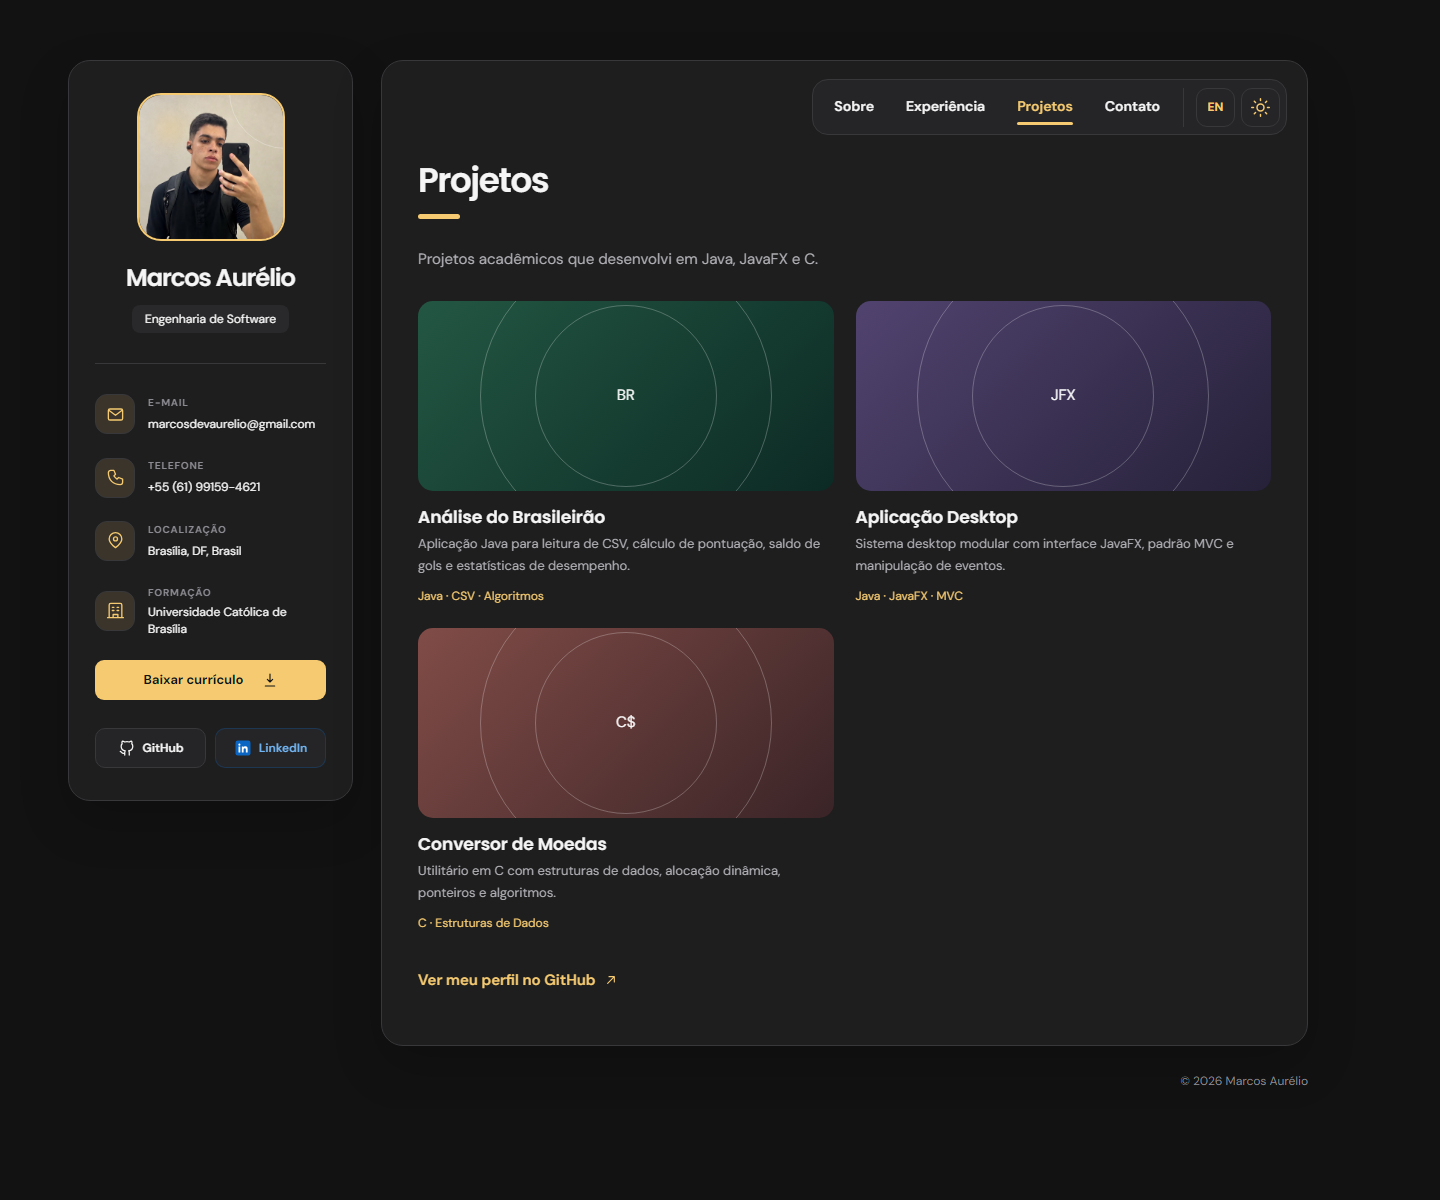
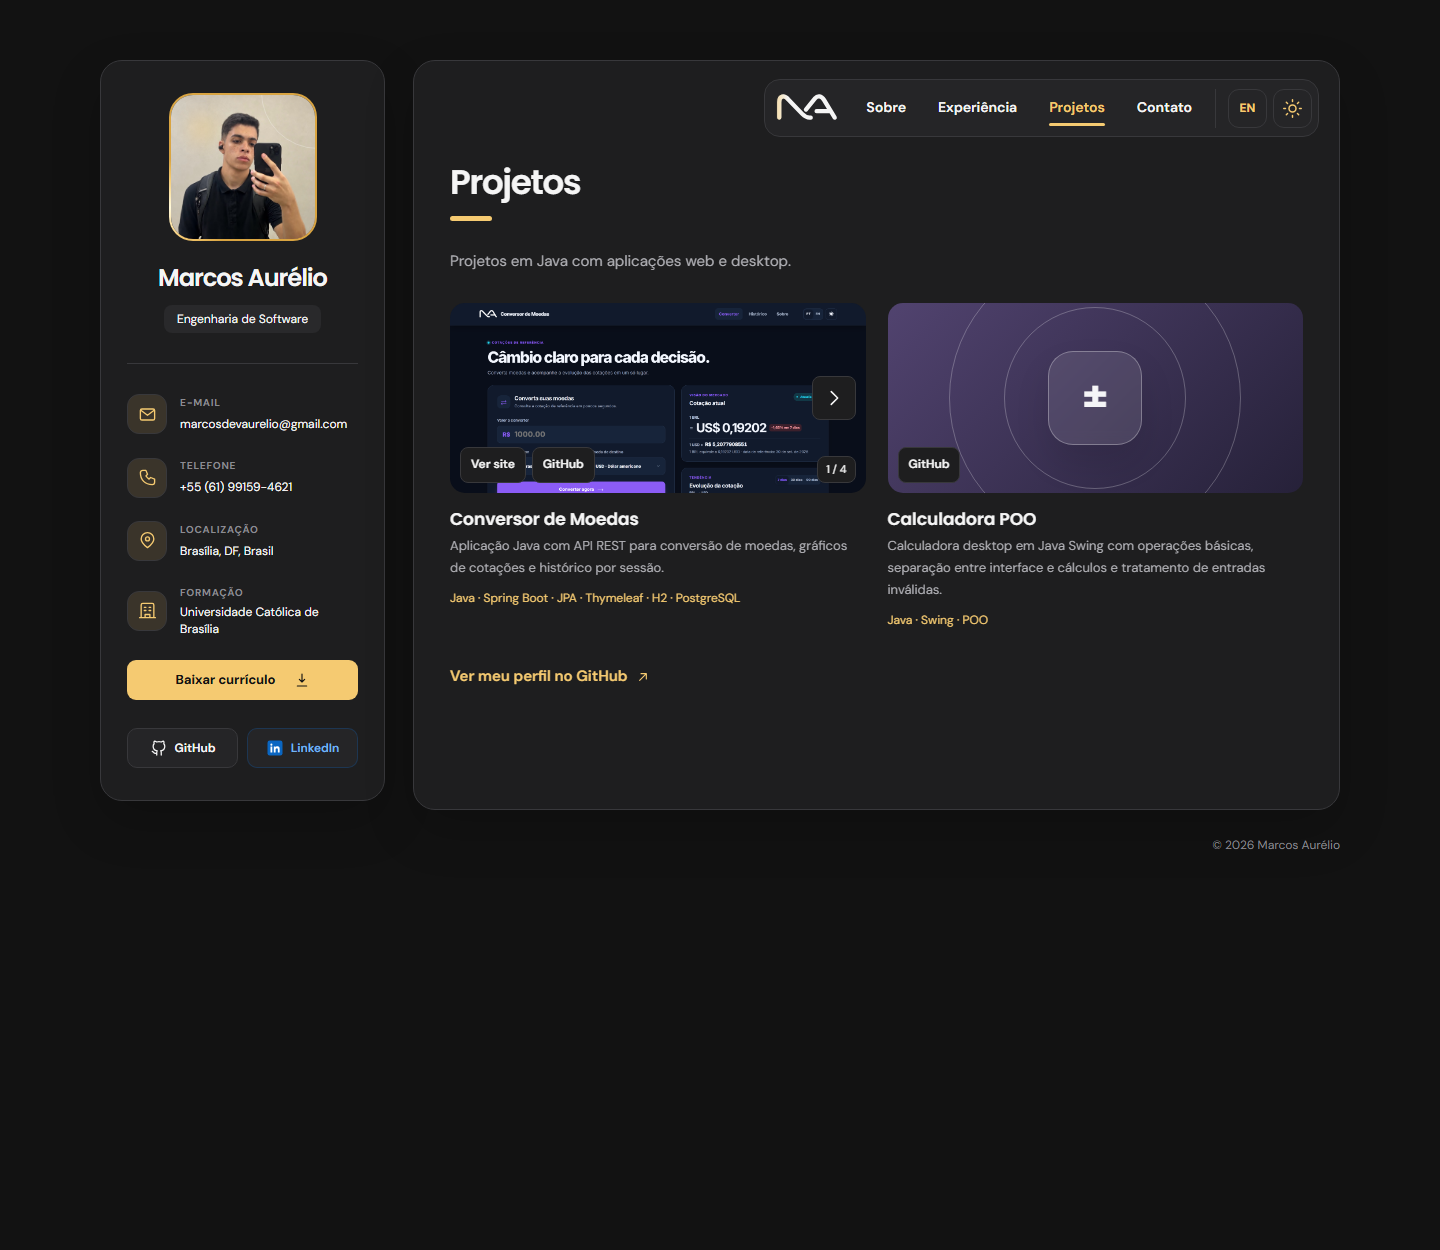
Atualiza capturas do portfolio e README

diff --git a/README.md b/README.md
@@ -31,11 +31,11 @@ Este é meu portfólio pessoal. Reuni nele minha experiência em suporte de TI, 
 
 ## Capturas de tela
 
+As capturas mostram a interface atual, incluindo os cards de projetos com galeria de imagens. As versões de desktop foram capturadas com largura de 1440 px; a versão para celular, com 390 px.
+
 | Experiência | Projetos |
 | :---: | :---: |
 | ![Aba Experiência em tema escuro](assets/screenshots/02-experiencia.png) | ![Aba Projetos em tema escuro](assets/screenshots/03-projetos.png) |
-
-> A captura da aba Projetos mostra a versão anterior dos cards.
 
 | Contato · tema claro | About · English |
 | :---: | :---: |
